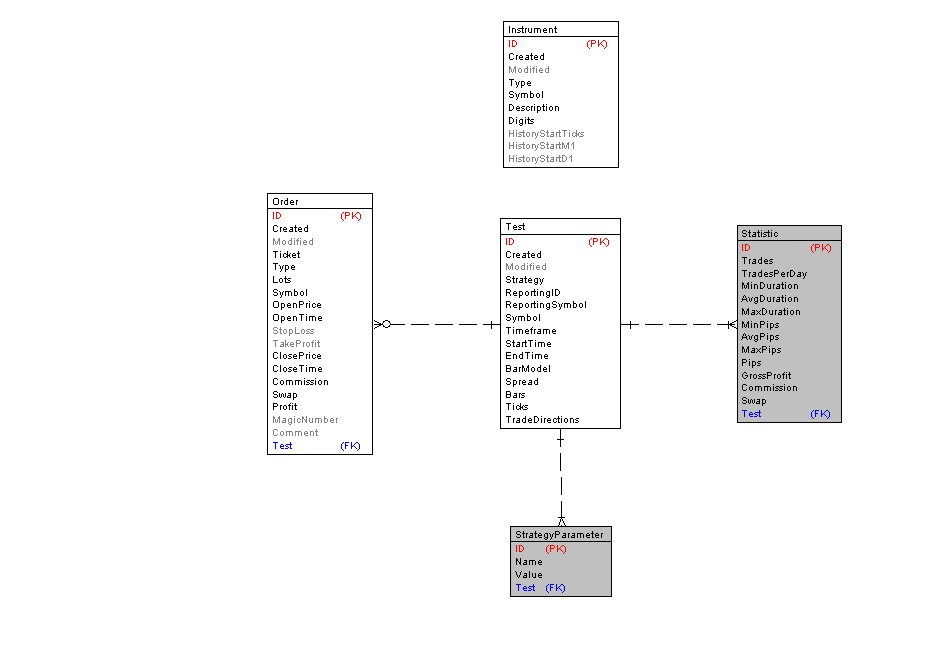
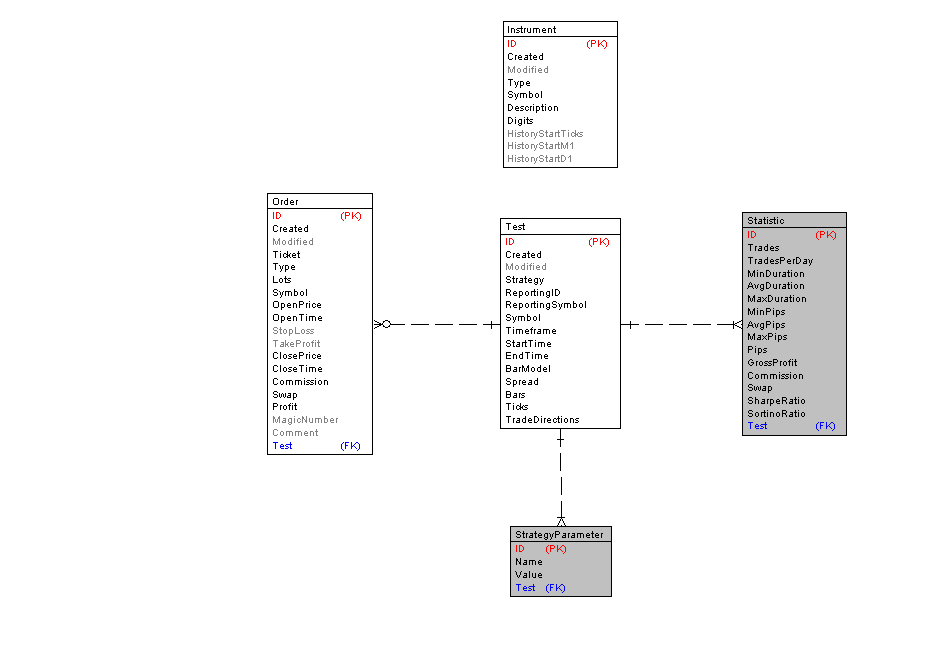
calculate simplified non-normalized Sharpe ratio

diff --git a/etc/db/xtrade/html/EntityB.html b/etc/db/xtrade/html/EntityB.html
@@ -207,6 +207,10 @@
   <tr>
     <td class="tabdata" >     </td>    <td class="tabdata" > Swap    </td>    <td class="tabdata" > Decimal (10,2)    </td>    <td class="tabdata" > YES    </td>    <td class="tabdata" > NO    </td>    <td class="tabdata"  colspan="2"> total swap    </td>  </tr>
   <tr>
+    <td class="tabdata" >     </td>    <td class="tabdata" > SharpeRatio    </td>    <td class="tabdata" > Decimal (10,3)    </td>    <td class="tabdata" > YES    </td>    <td class="tabdata" > NO    </td>    <td class="tabdata"  colspan="2"> non-normalized Sharpe ratio    </td>  </tr>
+  <tr>
+    <td class="tabdata" >     </td>    <td class="tabdata" > SortinoRatio    </td>    <td class="tabdata" > Decimal (10,3)    </td>    <td class="tabdata" > YES    </td>    <td class="tabdata" > NO    </td>    <td class="tabdata"  colspan="2"> non-normalized Sortino ratio    </td>  </tr>
+  <tr>
     <td class="tabdata" > FK    </td>    <td class="tabdata" > ID/Test    </td>    <td class="tabdata" > Integer    </td>    <td class="tabdata" > YES    </td>    <td class="tabdata"  colspan="3"> YES   </td>  </tr>
 </table>
 

diff --git a/etc/db/xtrade/html/MInfoB.html b/etc/db/xtrade/html/MInfoB.html
@@ -37,7 +37,7 @@
   <tr>
     <td class="tabhead"  width="25%"> Entities    </td>    <td class="tabdata"  colspan="3"> 5    </td>    <td class="tabhead" > Independent    </td>    <td class="tabdata" > 5    </td>    <td class="tabhead" > Dependent    </td>    <td class="tabdata" > 0    </td>  </tr>
   <tr>
-    <td class="tabhead" > Attributes    </td>    <td class="tabdata"  colspan="3"> 62    </td>    <td class="tabhead" > PK    </td>    <td class="tabdata" > 5    </td>    <td class="tabhead" > PFK    </td>    <td class="tabdata" > 0    </td>  </tr>
+    <td class="tabhead" > Attributes    </td>    <td class="tabdata"  colspan="3"> 64    </td>    <td class="tabhead" > PK    </td>    <td class="tabdata" > 5    </td>    <td class="tabhead" > PFK    </td>    <td class="tabdata" > 0    </td>  </tr>
   <tr>
     <td class="tabhead" > User types    </td>    <td class="tabdata"  colspan="7"> 0    </td>  </tr>
   <tr>

diff --git a/etc/db/xtrade/html/MImageB.html b/etc/db/xtrade/html/MImageB.html
@@ -16,9 +16,9 @@
 <img border="0" src="Img/ERD_0.png" usemap="#map0" >
 </p>
 <map name="map0" id="map0">
-<area shape="rect" coords="503,21,619,168" href="EntityB.html#Entity_9" target="_blank" alt="Instrument" />
+<area shape="rect" coords="503,21,618,168" href="EntityB.html#Entity_9" target="_blank" alt="Instrument" />
 <area shape="rect" coords="267,193,373,455" href="EntityB.html#Entity_5" target="_blank" alt="Order" />
-<area shape="rect" coords="737,225,842,423" href="EntityB.html#Entity_8" target="_blank" alt="Statistic" />
+<area shape="rect" coords="742,212,847,436" href="EntityB.html#Entity_8" target="_blank" alt="Statistic" />
 <area shape="rect" coords="510,526,612,597" href="EntityB.html#Entity_7" target="_blank" alt="StrategyParameter" />
 <area shape="rect" coords="500,218,621,429" href="EntityB.html#Entity_1" target="_blank" alt="Test" />
 </map>

diff --git a/app/model/metatrader/StatisticDAO.php b/app/model/metatrader/StatisticDAO.php
@@ -22,19 +22,21 @@ class StatisticDAO extends DAO {
             'table'      => 't_statistic',
             'connection' => 'sqlite',
             'properties' => [
-                ['name'=>'id'          , 'type'=>INT  , 'primary'=>true         ],                  // db:int
-                ['name'=>'trades'      , 'type'=>INT  ,                         ],                  // db:int
-                ['name'=>'tradesPerDay', 'type'=>FLOAT, 'column'=>'trades_day'  ],                  // db:float
-                ['name'=>'minDuration' , 'type'=>INT  , 'column'=>'duration_min'],                  // db:int
-                ['name'=>'avgDuration' , 'type'=>INT  , 'column'=>'duration_avg'],                  // db:int
-                ['name'=>'maxDuration' , 'type'=>INT  , 'column'=>'duration_max'],                  // db:int
-                ['name'=>'minPips'     , 'type'=>FLOAT, 'column'=>'pips_min'    ],                  // db:float
-                ['name'=>'avgPips'     , 'type'=>FLOAT, 'column'=>'pips_avg'    ],                  // db:float
-                ['name'=>'maxPips'     , 'type'=>FLOAT, 'column'=>'pips_max'    ],                  // db:float
-                ['name'=>'pips'        , 'type'=>FLOAT,                         ],                  // db:float
-                ['name'=>'grossProfit' , 'type'=>FLOAT, 'column'=>'gross_profit'],                  // db:float
-                ['name'=>'commission'  , 'type'=>FLOAT,                         ],                  // db:float
-                ['name'=>'swap'        , 'type'=>FLOAT,                         ],                  // db:float
+                ['name'=>'id'          , 'type'=>INT  , 'primary'=>true          ],                 // db:int
+                ['name'=>'trades'      , 'type'=>INT  ,                          ],                 // db:int
+                ['name'=>'tradesPerDay', 'type'=>FLOAT, 'column'=>'trades_day'   ],                 // db:float
+                ['name'=>'minDuration' , 'type'=>INT  , 'column'=>'duration_min' ],                 // db:int
+                ['name'=>'avgDuration' , 'type'=>INT  , 'column'=>'duration_avg' ],                 // db:int
+                ['name'=>'maxDuration' , 'type'=>INT  , 'column'=>'duration_max' ],                 // db:int
+                ['name'=>'minPips'     , 'type'=>FLOAT, 'column'=>'pips_min'     ],                 // db:float
+                ['name'=>'avgPips'     , 'type'=>FLOAT, 'column'=>'pips_avg'     ],                 // db:float
+                ['name'=>'maxPips'     , 'type'=>FLOAT, 'column'=>'pips_max'     ],                 // db:float
+                ['name'=>'pips'        , 'type'=>FLOAT,                          ],                 // db:float
+                ['name'=>'grossProfit' , 'type'=>FLOAT, 'column'=>'gross_profit' ],                 // db:float
+                ['name'=>'commission'  , 'type'=>FLOAT,                          ],                 // db:float
+                ['name'=>'swap'        , 'type'=>FLOAT,                          ],                 // db:float
+                ['name'=>'sharpeRatio' , 'type'=>FLOAT, 'column'=>'sharpe_ratio' ],                 // db:float
+                ['name'=>'sortinoRatio', 'type'=>FLOAT, 'column'=>'sortino_ratio'],                 // db:float
             ],
             'relations' => [
                 ['name'=>'test', 'assoc'=>'one-to-one', 'type'=>Test::class, 'column'=>'test_id'],  // db:int

diff --git a/app/model/metatrader/Statistic.php b/app/model/metatrader/Statistic.php
@@ -3,6 +3,8 @@ namespace rosasurfer\xtrade\model\metatrader;
 
 use rosasurfer\db\orm\PersistableObject;
 
+use function rosasurfer\xtrade\stats_sharpe_ratio;
+
 
 /**
  * Represents the statistics record of a {@link Test}.
@@ -20,6 +22,8 @@ use rosasurfer\db\orm\PersistableObject;
  * @method float getGrossProfit()  Return the total gross gross profit of the statistics record.
  * @method float getCommission()   Return the total commission amount of the statistics record.
  * @method float getSwap()         Return the total swap amount of the statistics record.
+ * @method float getSharpeRatio()  Return the non-normalized Sharpe ratio of the statistics record.
+ * @method float getSortinoRatio() Return the non-normalized Sortino ratio of the statistics record.
  * @method Test  getTest()         Return the test the statistics record belongs to.
  */
 class Statistic extends PersistableObject {
@@ -64,6 +68,12 @@ class Statistic extends PersistableObject {
     /** @var float */
     protected $swap;
 
+    /** @var float */
+    protected $sharpeRatio;
+
+    /** @var float */
+    protected $sortinoRatio = 0;
+
     /** @var Test [transient] */
     protected $test;
 
@@ -93,7 +103,8 @@ class Statistic extends PersistableObject {
         $maxPips = 0;
         $sumPips = 0;
 
-        $profit = $commission = $swap = 0;
+        $profit  = $commission = $swap = 0;
+        $returns = [];
 
         /** @var Order $trade */
         foreach ($trades as $trade) {
@@ -117,6 +128,8 @@ class Statistic extends PersistableObject {
             $profit     += $trade->getProfit();
             $commission += $trade->getCommission();
             $swap       += $trade->getSwap();
+
+            $returns[] = $pips;
         }
 
         $stats->trades       = $numTrades;
@@ -134,6 +147,8 @@ class Statistic extends PersistableObject {
         $stats->grossProfit  = round($profit, 2);
         $stats->commission   = round($commission, 2);
         $stats->swap         = round($swap, 2);
+
+        $stats->sharpeRatio  = stats_sharpe_ratio($returns);
 
         return $stats;
     }

diff --git a/app/helpers.php b/app/helpers.php
@@ -2,6 +2,7 @@
 namespace rosasurfer\xtrade;
 
 use rosasurfer\exception\IllegalTypeException;
+use rosasurfer\exception\IllegalArgumentException;
 
 
 /**
@@ -228,4 +229,49 @@ function prettyTimeRange($startTime, $endTime) {
     else $range = $startDate->format('d.m.Y').'-'.$endDate->format('d.m.Y');
 
     return $range;
+}
+
+
+/**
+ * User-land implementation of PECL::stats_standard_deviation()
+ *
+ * @param  array $values
+ * @param  bool  $sample [optional] - whether or not the values represent only a sample of the total population
+ *                                    (default: no)
+ * @return float - standard deviation
+ */
+function stats_standard_deviation(array $values, $sample = false) {
+    if (function_exists('stats_standard_deviation'))
+        return \stats_standard_deviation($values, $sample);
+
+    $n = sizeof($values);
+    if (           $n==0) throw new IllegalArgumentException('Illegal number of values (zero)');
+    if ($sample && $n==1) throw new IllegalArgumentException('Illegal number of values (one)');
+
+    $mean = array_sum($values) / $n;
+    $carry = 0.0;
+
+    foreach ($values as $value) {
+        $d = ((double) $value) - $mean;
+        $carry += $d * $d;
+    };
+    if ($sample) $n--;
+
+    return sqrt($carry / $n);
+}
+
+
+/**
+ * Calculate the Sharpe Ratio of the given returns.
+ *
+ * @param  array $returns
+ *
+ * @return float - non-normalized Sharpe ratio
+ */
+function stats_sharpe_ratio(array $returns) {
+    $n = sizeof($returns);
+    if (!$n) throw new IllegalArgumentException('Illegal number of returns (zero)');
+
+    $mean = array_sum($returns) / $n;
+    return $mean / stats_standard_deviation($returns);
 }

diff --git a/bin/metatrader/importTest.php b/bin/metatrader/importTest.php
@@ -120,10 +120,10 @@ function processTestFiles(array $files) {
         echoPre('Test(id='.$test->getId().') of "'.$test->getStrategy().'" with '.$test->countTrades().' trades saved.');
 
         // print strat parameters
-        echoPre(NL);
-        foreach ($test->getStrategyParameters() as $param) {
-            echoPre('input: '.$param->getName().'='.$param->getValue());
-        }
+        //foreach ($test->getStrategyParameters() as $param) {
+        //    echoPre('input: '.$param->getName().'='.$param->getValue());
+        //}
+        //echoPre(NL);
 
         // print statistics
         $stats        = $test->getStats();
@@ -145,11 +145,11 @@ function processTestFiles(array $files) {
         $commission   = $stats->getCommission();
         $swap         = $stats->getSwap();
 
-        echoPre(NL);
         echoPre('trades:    '.$tradesPerDay.'/day');
         echoPre('durations: min='.$sMinDuration.'  avg='.$sAvgDuration.'  max='.$sMaxDuration);
         echoPre('pips:      '.$pips.'  min='.$minPips.'  avg='.$avgPips.'  max='.$maxPips);
-        echoPre('profit:    '.number_format($profit, 2).'  commission='.number_format($commission, 2).'  swap='.number_format($swap, 2));
+        echoPre('profit:    '.numf($profit, 2).'  commission='.numf($commission, 2).'  swap='.numf($swap, 2));
+        echoPre(NL);
     }
     return true;
 }

diff --git a/bin/myfxbook/syncAccounts.php b/bin/myfxbook/syncAccounts.php
@@ -281,11 +281,11 @@ function updateDatabase(Signal $signal, array $currentOpenPositions, &$openUpdat
                 $iFirstNewRow       = 0;
 
                 foreach ($report as $i => $row) {
-                    if      ($row['total' ] > 0) $netPosition  = 'Long   '.number_format( $row['total'], 2);
-                    else if ($row['total' ] < 0) $netPosition  = 'Short  '.number_format(-$row['total'], 2);
-                    else if ($row['hedged'])     $netPosition  = 'Hedged '.str_repeat(' ', strLen(number_format(abs($report[$i-1]['total']), 2)));
+                    if      ($row['total' ] > 0) $netPosition  = 'Long   '.numf( $row['total'], 2);
+                    else if ($row['total' ] < 0) $netPosition  = 'Short  '.numf(-$row['total'], 2);
+                    else if ($row['hedged'])     $netPosition  = 'Hedged '.str_repeat(' ', strLen(numf(abs($report[$i-1]['total']), 2)));
 
-                    if      ($row['hedged'])     $netPosition .= ' +-'.number_format($row['hedged'], 2).' lots';
+                    if      ($row['hedged'])     $netPosition .= ' +-'.numf($row['hedged'], 2).' lots';
                     else if ($row['total' ])     $netPosition .= ' lots';
                     else                         $netPosition  = 'Flat';
 

diff --git a/bin/simpletrader/syncAccounts.php b/bin/simpletrader/syncAccounts.php
@@ -328,11 +328,11 @@ function updateDatabase(Signal $signal, array &$currentOpenPositions, &$openUpda
                 $iFirstNewRow       = 0;
 
                 foreach ($report as $i => $row) {
-                    if      ($row['total' ] > 0) $netPosition  = 'Long  '.number_format( $row['total'], 2);
-                    else if ($row['total' ] < 0) $netPosition  = 'Short '.number_format(-$row['total'], 2);
-                    else if ($row['hedged'])     $netPosition  = 'Hedge '.str_repeat(' ', strLen(number_format(abs($report[$i-1]['total']), 2)));
+                    if      ($row['total' ] > 0) $netPosition  = 'Long  '.numf( $row['total'], 2);
+                    else if ($row['total' ] < 0) $netPosition  = 'Short '.numf(-$row['total'], 2);
+                    else if ($row['hedged'])     $netPosition  = 'Hedge '.str_repeat(' ', strLen(numf(abs($report[$i-1]['total']), 2)));
 
-                    if      ($row['hedged'])     $netPosition .= ' +-'.number_format($row['hedged'], 2).' lot';
+                    if      ($row['hedged'])     $netPosition .= ' +-'.numf($row['hedged'], 2).' lot';
                     else if ($row['total' ])     $netPosition .= ' lot';
                     else                         $netPosition  = 'Flat';
 

diff --git a/app/lib/dukascopy/Dukascopy.php b/app/lib/dukascopy/Dukascopy.php
@@ -120,10 +120,10 @@ class Dukascopy extends StaticClass {
             $offset += DUKASCOPY_BAR_SIZE;
 
             // Bar validieren
-            if ($bars[$i]['open' ] > $bars[$i]['high'] ||      // aus (H >= O && O >= L) folgt (H >= L)
-                 $bars[$i]['open' ] < $bars[$i]['low' ] ||      // nicht mit min()/max(), da nicht performant
-                 $bars[$i]['close'] > $bars[$i]['high'] ||
-                 $bars[$i]['close'] < $bars[$i]['low' ]) {
+            if ($bars[$i]['open' ] > $bars[$i]['high'] ||       // aus (H >= O && O >= L) folgt (H >= L)
+                $bars[$i]['open' ] < $bars[$i]['low' ] ||       // nicht mit min()/max(), da nicht performant
+                $bars[$i]['close'] > $bars[$i]['high'] ||
+                $bars[$i]['close'] < $bars[$i]['low' ]) {
 
                 $digits  = XTrade::$symbols[$symbol]['digits'];
                 $divider = pow(10, $digits);

diff --git a/bin/metatrader/listSymbols.php b/bin/metatrader/listSymbols.php
@@ -227,7 +227,7 @@ function collectData($file, array &$fields, array &$data, array $options) {
                 $decimals = strLeftTo(strRightFrom($s, '.'), 'E');
                 $decimals = ($decimals=='0' ? 0 : strLen($decimals)) + $e;
                 if ($decimals <= 14)                                                    // ab 15 Dezimalstellen wissenschaftliche Anzeige
-                    $value = number_format($value, $decimals);
+                    $value = numf($value, $decimals);
             }
             $values[$name][]         = $value;                                         // real-name[n]      => value
             $fields[$name]['length'] = max(strLen($value), $fields[$name]['length']);  // real-name[length] => (int)

diff --git a/bin/metatrader/dir.php b/bin/metatrader/dir.php
@@ -210,7 +210,7 @@ function showDirResults($dirName, array $files, array $formats, array $symbols, 
 
         if ($formats[$i]) {
             $period = XTrade::periodDescription($periods[$i]);
-            echoPre(trim(sprintf($tableRowFormat, $symbols[$i].','.$period, $digits[$i], $syncMarkers[$i], $lastSyncTimes[$i], number_format($bars[$i]), $barsFrom[$i], $barsTo[$i], $formats[$i], $errors[$i])));
+            echoPre(trim(sprintf($tableRowFormat, $symbols[$i].','.$period, $digits[$i], $syncMarkers[$i], $lastSyncTimes[$i], numf($bars[$i]), $barsFrom[$i], $barsTo[$i], $formats[$i], $errors[$i])));
         }
         else {
             echoPre(str_pad($fileName, 18).' '.$errors[$i]);
